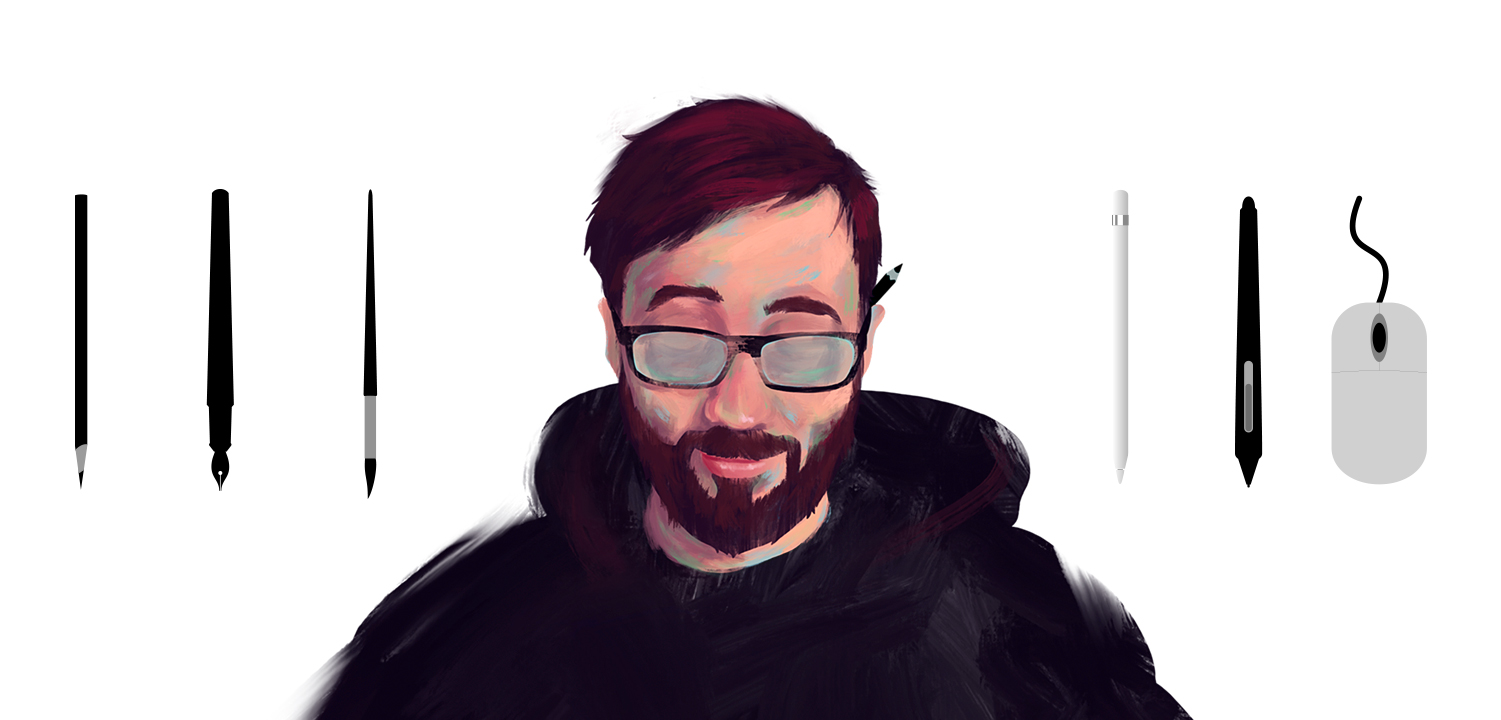
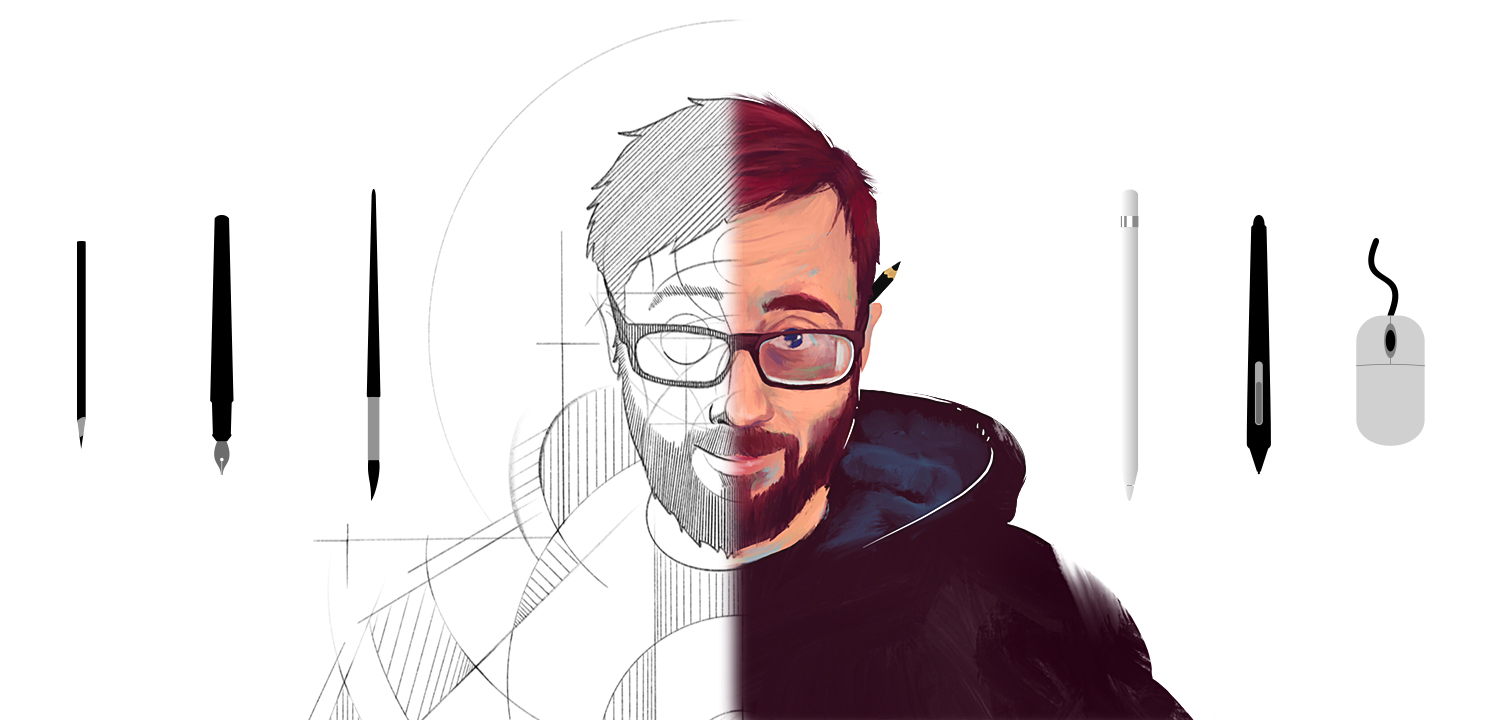
split img design page

diff --git a/design.html b/design.html
@@ -75,7 +75,7 @@
 							</div>
 
 							<div class="row">
-                <img src="images/matt_images/Design/selfPortraitV2.jpg" class= "center" alt="Hi there!" width="auto">
+                <img src="images/matt_images/Design/selfPortraitV3.jpg" class= "center" alt="Hi there!" width="auto">
               </div>
 
 							<br><p>I am a graphic artist offering visual solutions that maximize user experience with clean impactful design. My training in multimedia arts affords me the ability to provide my clients with versatility when it comes to visual problem solving and branding strategy. Check out the case studies below to see examples of game environment design, visual identity, marketing, motion graphics, and publication design.</p>
